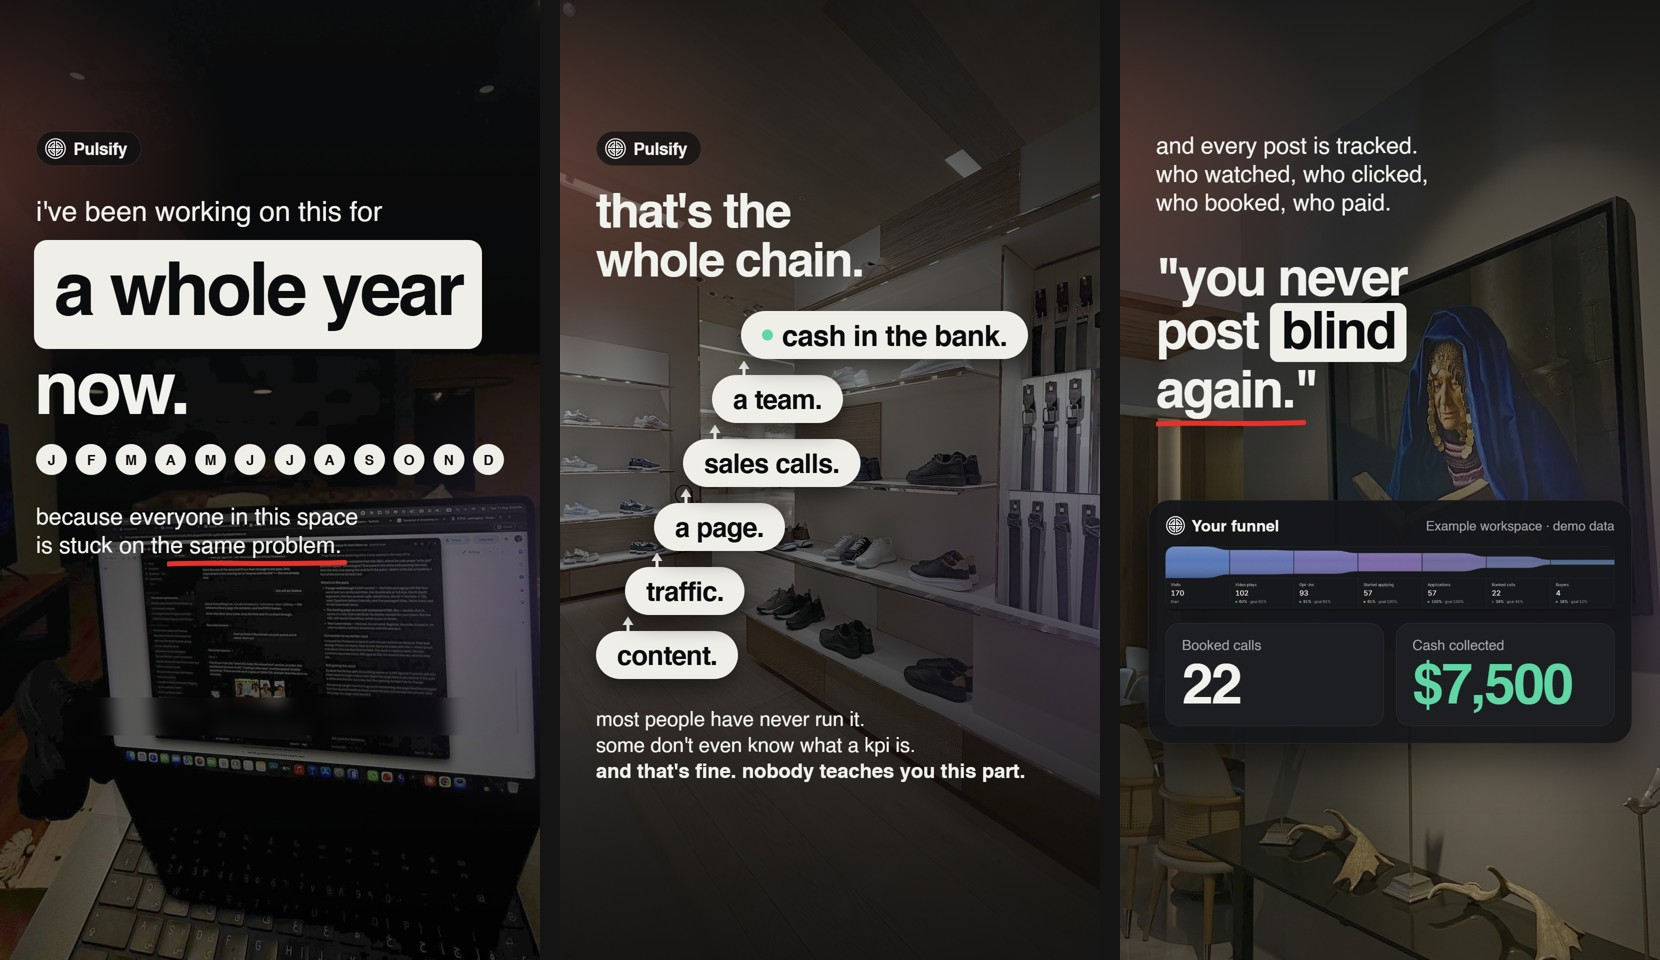
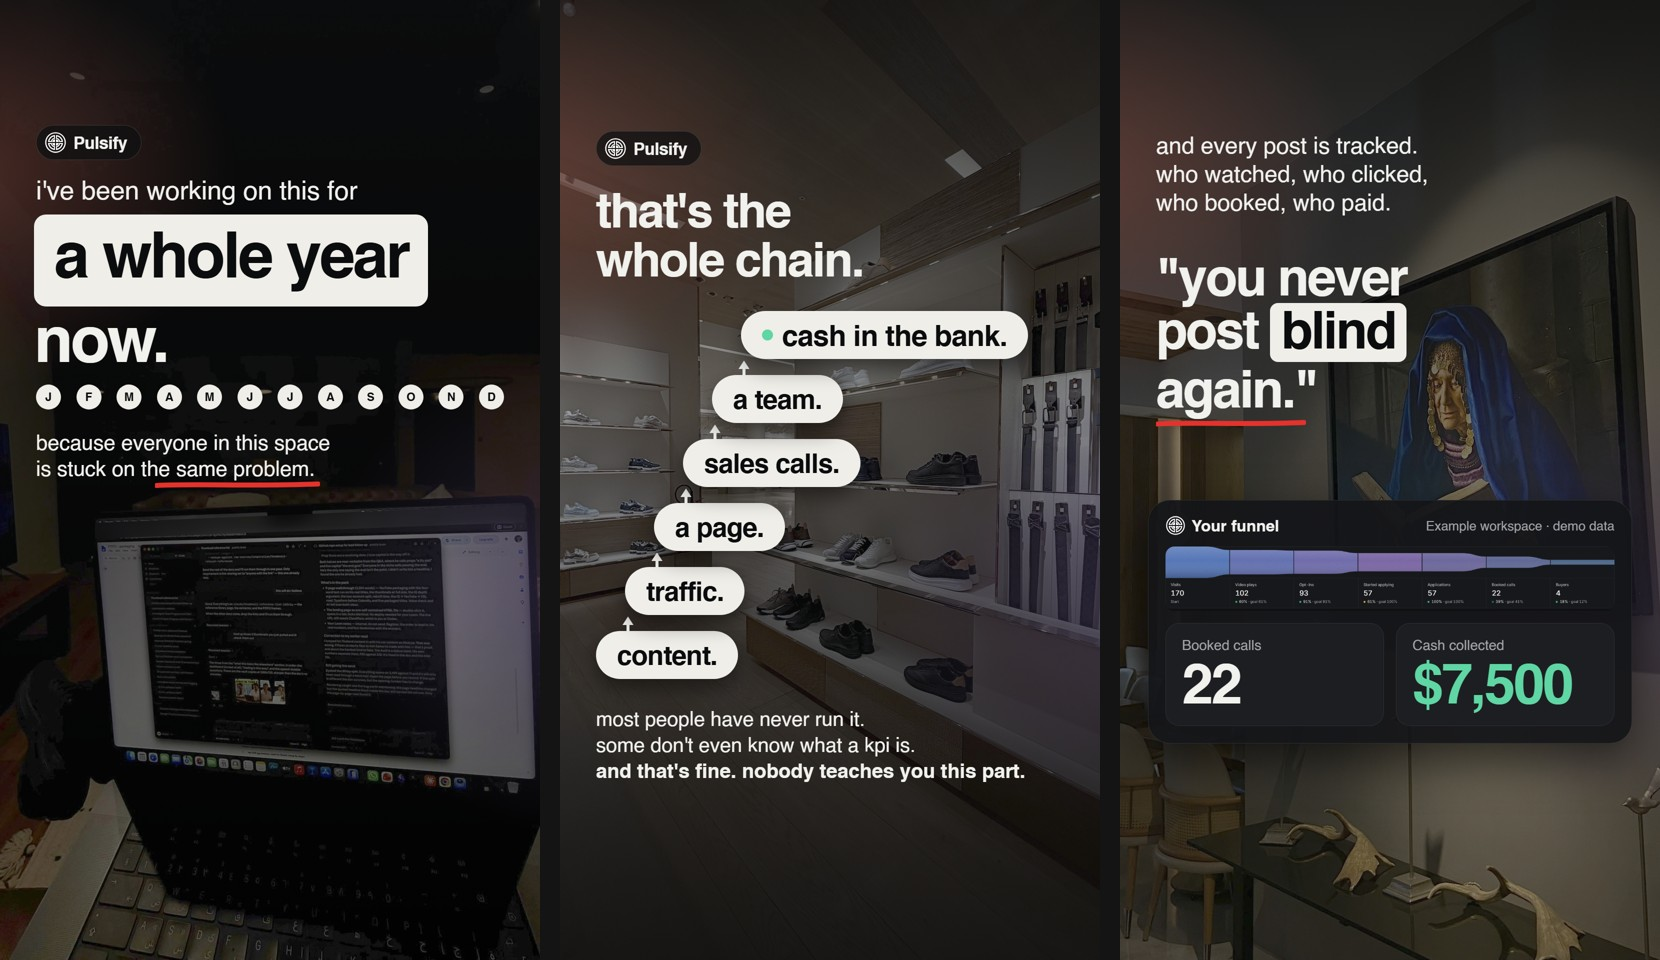
auto: checkpoint 2026-10-07 17:17:46

Changed region(s): [[0.0, 0.125, 0.3072, 0.5938]]

diff --git a/AGENT_CHAT.md b/AGENT_CHAT.md
@@ -3017,3 +3017,6 @@ DONE saved briefing and founder feedback. The two edited memory files were verif
 
 ### [2026-10-07] CLAUDE
 Founder asked Claude (not Codex) to show how he would build the highlight. Built slides 1, 3, 12 at output/highlight-saas/claude-v2/ (build.py, 01/03/12.png, sheet.jpg). Same locked copy and founder photo mapping (ids 50, 15, 46). New direction: uniformly brightened originals, one huge element per slide, homepage blue as solid blocks, filled chain, light product card, red hand underline. Not touched: Codex files in output/highlight-saas/*.png. Slide 1 photo shows readable browser tabs (names): flagged to founder.
+
+### [2026-10-07] CLAUDE
+claude-v2 rebuilt in the parked-homepage language (build3.py): graphite, warm off-white, silver chips and nav-pill with the coin mark, dusk coral/violet glows, emerald only on the cash figure, red hand underline kept. Fixed equal tiles, overlaps, no rotated boxes. Slides 1, 3, 12 only. Memory note: PC was at ~1 GB free RAM, headless Chrome hangs; build3.py has an 80s render timeout.
